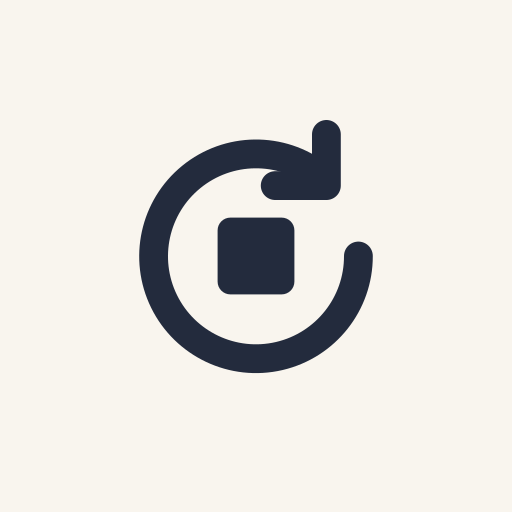
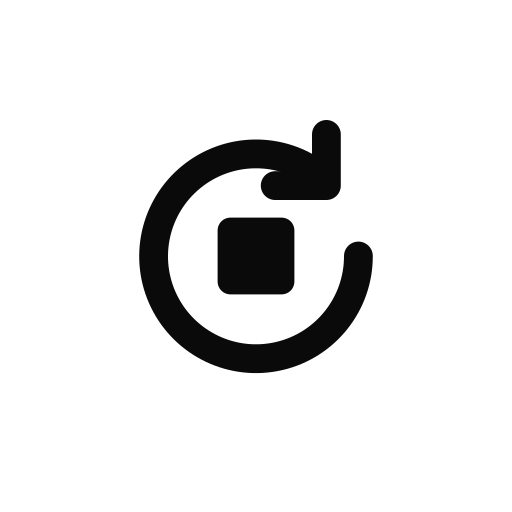
Record the web app's design across screens, and match the new theme
apps/web/DESIGN.md records how the console is laid out and operated on
a desktop, an iPad and an iPhone: breakpoints read as devices, the shell
and tab bar, safe areas, touch, the screens that change shape and the
shared components. PRODUCT.md's operating context says where it runs
and what a phone is for.

The neutral theme (#227) made the paper white; theme-color, the manifest
and the Home Screen icons still had the old warm paper and navy ink.

Changed region(s): [[0.25, 0.2188, 0.75, 0.75]]

diff --git a/apps/web/app/root.tsx b/apps/web/app/root.tsx
@@ -42,7 +42,7 @@ export const meta: Route.MetaFunction = () => [
 ];
 
 /** Browser chrome colour per theme: `--paper` from app.css, in hex (the manifest needs hex too). */
-const THEME_COLOR = { light: '#f9f5ee', dark: '#12161d' } as const;
+const THEME_COLOR = { light: '#ffffff', dark: '#0a0a0a' } as const;
 
 /**
  * Resolves the stored theme choice ("light" by default, "dark", or "system") to `data-theme` before

diff --git a/apps/web/DESIGN.md b/apps/web/DESIGN.md
@@ -1,0 +1,122 @@
+---
+name: OrderLoop web app
+description: The operator console. Ledger on a desktop, an iPad and an iPhone, in a tab or on the Home Screen.
+---
+
+# Design System: OrderLoop web app
+
+## Overview
+
+The console where people watch orders, decide approvals and draw flows. Its visual system is
+**Ledger**: shadcn's base-luma preset (neutral greys, Inter, pill buttons and fields) on the Radix
+primitives in `packages/ui`, with status tokens (`ok`, `wait`, `bad`, `undo`, `run`, `idle`, `ai`)
+that mean one thing each. The tokens live in `apps/web/app/app.css`, are mirrored in
+`packages/design/src/tokens.ts`, and the docs site's reading of them is recorded in
+`apps/docs/DESIGN.md`. This file is about how the app is laid out and operated across screens.
+
+## Screens and breakpoints
+
+Tailwind's default breakpoints, read as devices:
+
+| Width | Typically | What changes |
+|---|---|---|
+| below `sm` (640px) | iPhone upright | Top bar shows icons only |
+| below `md` (768px) | phones, either way up | Bottom tab bar; tables stack into cards; the Commerce jump links stick under the top bar |
+| `md` to `lg` (768–1023px) | iPad upright | Links in the top bar, scrolling sideways with a fade at the edge; Assistant, New order and the account name are icons |
+| `lg` and up (1024px) | iPad on its side, desktop | The full flow editor; the order page's graph beside its panels; the assistant as a column |
+
+Size and hint by what is pointing, not by width: `touch:` is a coarse pointer (a finger), `fine:` a
+mouse or trackpad (an iPad with a trackpad reports fine). `short:` is a phone on its side (landscape,
+under 32rem tall, under 64rem wide).
+
+## The shell
+
+- **Top bar:** 3rem plus the status bar's inset (`--shell-h`), sticky, with a rule under it. The
+  wordmark, the main links from md, then Assistant, New order, theme and account.
+- **Tab bar (below md):** Overview, Orders, Approvals (with its count), Flows, and More: the pages
+  an operator reaches for, in thumb reach. 3.5rem plus the home indicator (`--tabbar-h`); in
+  `short:` 2.75rem with the labels for screen readers only. More is a bottom sheet with the other
+  pages, the theme and the account's pages, and it closes when a page is chosen.
+- **Main** pads its foot by `--tabbar-h`. A full-height page (the flow editor, the order page at
+  lg) is `calc(100dvh - var(--shell-h))`; never hard-code the bar heights.
+- **Assistant:** a column beside the page at lg; below that a sheet between the top bar and the
+  tab bar. While the on-screen keyboard is up (`data-keyboard` on `<html>`, from
+  `useVisualViewport`) it takes exactly the area above the keyboard.
+- **Slow pages:** a navigation that takes over 400ms draws a link-blue rule sweeping under the top
+  bar and marks main `aria-busy`. Quicker ones show nothing.
+- **Route announcer:** after a client-side navigation, the new page's h1 is read out in a polite
+  live region. Focus stays where it was.
+
+## Safe areas
+
+`root.tsx` sets `viewport-fit=cover`, so the installed app and a phone on its side draw under the
+status bar, the notch and the home indicator. The insets are `--safe-top`, `--safe-right`,
+`--safe-bottom` and `--safe-left` (0 elsewhere). Pad with the utilities: `pt-safe-*`, `pb-safe-*`,
+`px-safe-*`, `pr-safe-*`, `pl-safe-*` give a page's own spacing or the inset, whichever is
+bigger (`pb-safe-3` is 0.75rem, or the home indicator's height). Read the insets through the
+variables, never `env()` directly: the device tests fake a notch by setting them.
+
+## Touch
+
+- **Targets:** 44px for a finger. A small control keeps its drawn size and gets `hit-area`, an
+  invisible box grown to 2.75rem on a coarse pointer. The shared buttons have it at every size;
+  raw buttons and links in the bars add it.
+- **Fields:** 16px on a touch screen whatever their classes say (an unlayered rule in app.css), so
+  iOS never zooms into one. Search fields get `enterKeyHint="search"` and no autocorrect.
+- **No** tap highlight, double-tap delay, text inflation or rubber-band at the page's edges
+  (live pages update themselves; pull-to-refresh would only get in the way).
+- **Keyboard hints** (⌘J, Enter sends, J/K, "/") show only with `fine:`. Single-key shortcuts go
+  through `pageShortcut`, which ignores them with ⌘, Ctrl or Alt held, while typing, and while a
+  dialog, menu or sheet is open: an iPad with a keyboard has both.
+- **The composer:** on a touch screen Return is a new line and the Send button sends; ⌘ or Ctrl
+  with Enter always sends.
+
+## Screens that change shape
+
+- **Flow editor:** at lg it builds. On touch, a palette item is tapped in (dragging is unreliable
+  on iPadOS), node handles grow and carry a 32px target, and a connection snaps from 40px. Below lg
+  it is review-only, saying so: nothing on screen can change the flow.
+- **Order page:** at lg the graph sits beside Actions, Activity, Details and Node. Below lg the
+  graph is a tab of its own, so each view has the screen and the page is the one scroll region.
+- **Tables:** below md, `table-stack` makes each row a card: its first cell on a line of its own,
+  the others wrapping beneath it, each named by its `data-label`. A table that already fits keeps
+  its rows.
+
+## Components
+
+- **Confirm** (`components/confirm.tsx`): an "are you sure?" where the action was, never a modal.
+  The safe choice has focus, Escape backs out of the newest one, and focus goes back to what
+  asked. Its actions are children, so it sits inside the caller's form.
+- **Sheet** (`packages/ui/src/sheet.tsx`): from the bottom on a phone, capped at 85dvh and scrolling
+  inside, with its corners rounded at the top; from the side otherwise. It pads for the safe areas.
+- **Share** (`components/share-button.tsx`): the system share sheet where there is one, else Copy
+  link.
+- **Install hint** (`components/install-hint.tsx`): on Account only, on an iPhone or iPad in
+  Safari, until it's dismissed. iOS never offers Add to Home Screen itself.
+
+## Installed
+
+The web app manifest and the apple-touch-icon put it on the Home Screen as its own app
+(`standalone`). The icons are rendered from the favicon's mark by `apps/web/scripts/icons.sh`, ink on
+paper and opaque; rerun it after the mark or the paper colour changes, and change `THEME_COLOR` in
+`root.tsx` and the manifest's colours with them. `theme-color` follows the chosen theme, not only the
+system's. The status bar style is `default`. There is no service worker: nothing works offline, and
+actions must reach the engine.
+
+## Do's and Don'ts
+
+### Do
+
+- **Do** check a layout change with `pnpm --filter @orderloop/web e2e` (WebKit as an iPhone and an
+  iPad, both ways up, and a desktop). See `docs/testing.md`.
+- **Do** give a small control `hit-area` rather than growing it.
+- **Do** put a phone's most frequent action within thumb reach: the tab bar, a bottom sheet.
+- **Do** keep one scroll region at a time on a phone.
+
+### Don't
+
+- **Don't** read `env(safe-area-inset-*)` directly, or hard-code 3rem for the top bar.
+- **Don't** set a field under 16px for touch, or show a keyboard shortcut to a finger.
+- **Don't** let a narrow screen change what it can't save (the flow editor below lg).
+- **Don't** interrupt work to suggest installing the app.
+- **Don't** port another product's look; Ledger is this product's.

diff --git a/apps/web/PRODUCT.md b/apps/web/PRODUCT.md
@@ -26,6 +26,7 @@ Flows are data: an order pins an immutable flow version, and the live order view
 - The surfaces are the dashboard, the orders list and live order page, the approvals inbox, flows and the flow editor (palette, canvas, inspector, copilot), the Commerce page (the mock back office: inventory and store stock, customers, marketplace sellers, pricing, payments, shipping, documents, outbox), the team page and the account page.
 - Orders arrive from the dashboard, the REST API, signed inbound orders from storefronts, marketplaces and POS systems (`POST /api/v1/webhooks/orders`), and inbound email (`orders@`, `po@`, `purchasing@`). Each order has a commerce model and a channel.
 - Live order state syncs over a WebSocket from each order's agent. Actions (approve, reject, deliver event, cancel, chat) travel on the same socket.
+- It runs on desktops, iPads and iPhones, in a browser tab or added to the Home Screen as its own app. A phone is for keeping up and deciding: the overview, orders and their live state, approvals, the assistant and the More pages, through a bottom tab bar. An iPad upright reads like a phone with more room; on its side, and on a desktop, the flow editor builds and publishes. Below 1024px the editor is review-only, since saving and publishing need the full editor. There is no offline mode: actions are live and must reach the engine.
 - AI exists today in two places. The **flow-editor copilot** drafts or edits a flow graph from a prompt and returns an explanation plus validation issues. The **per-order Chat tab** answers from order state through tools and prepares approve, reject and cancel actions, which a person confirms on the order page with the usual undo window.
 
 ## Capabilities and Constraints
